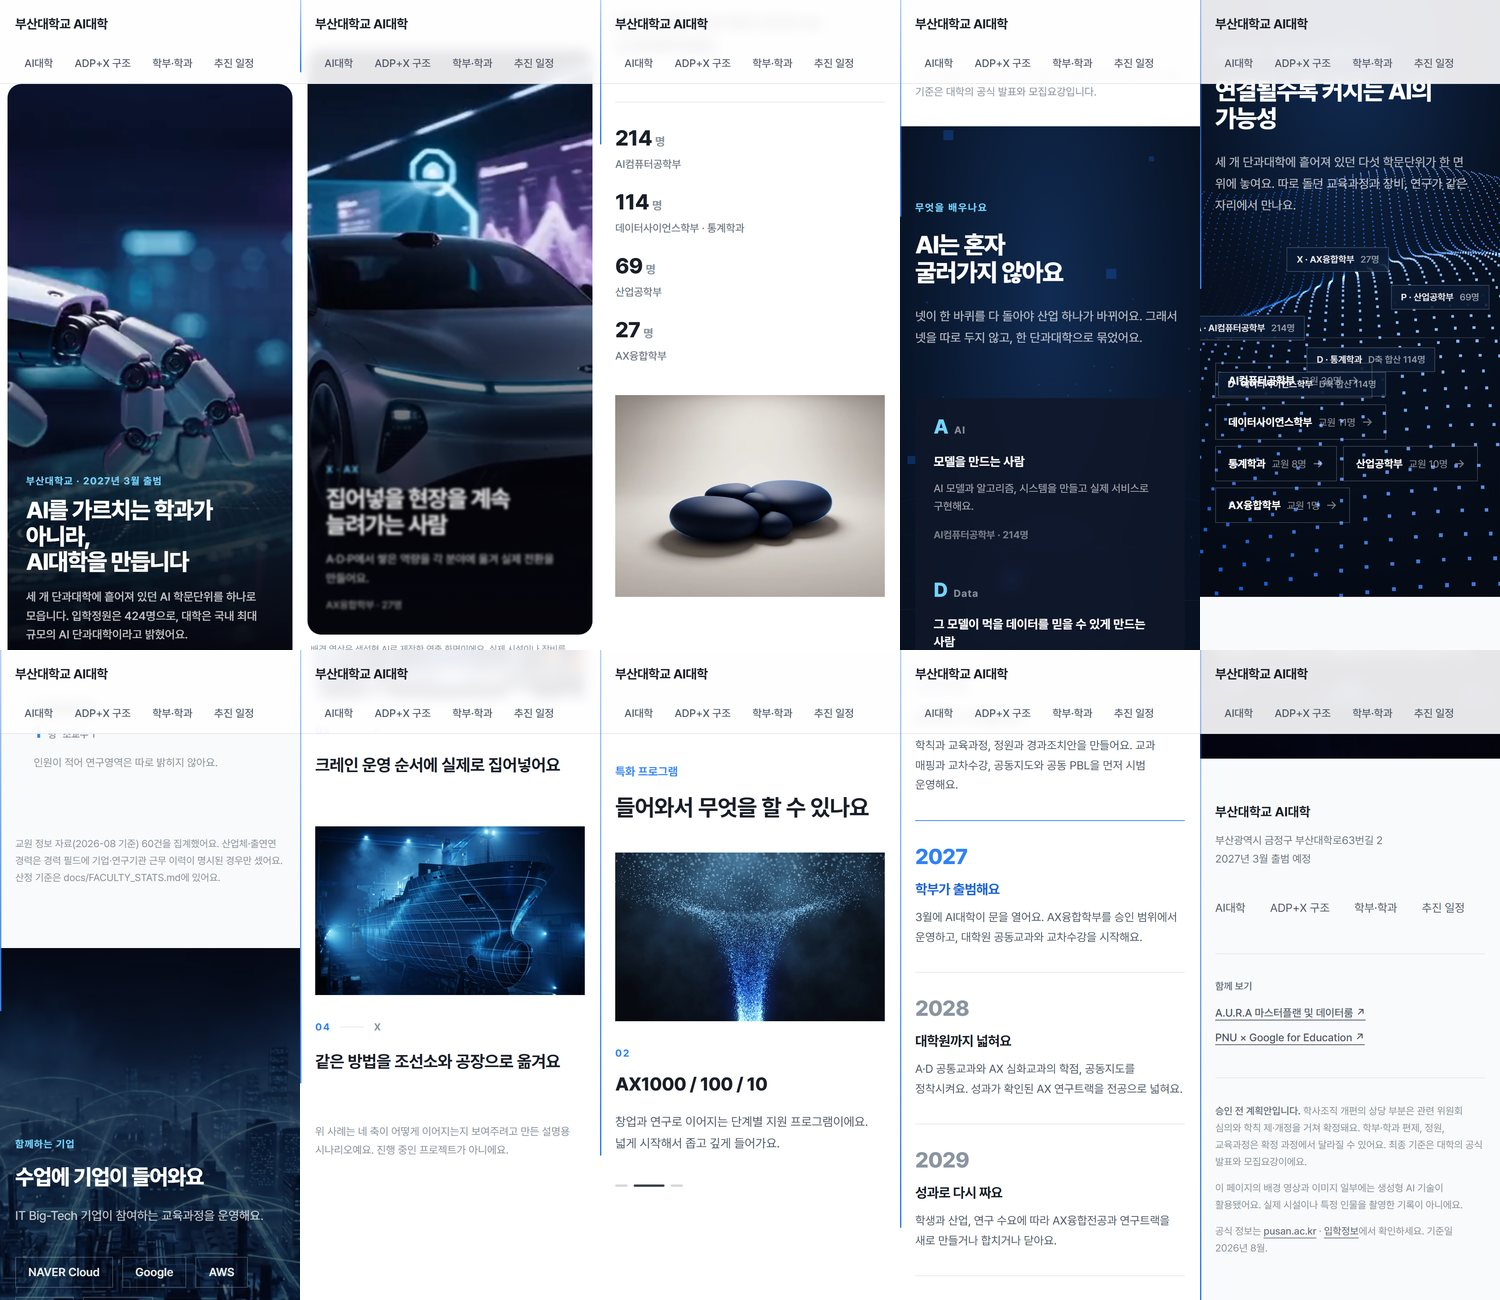
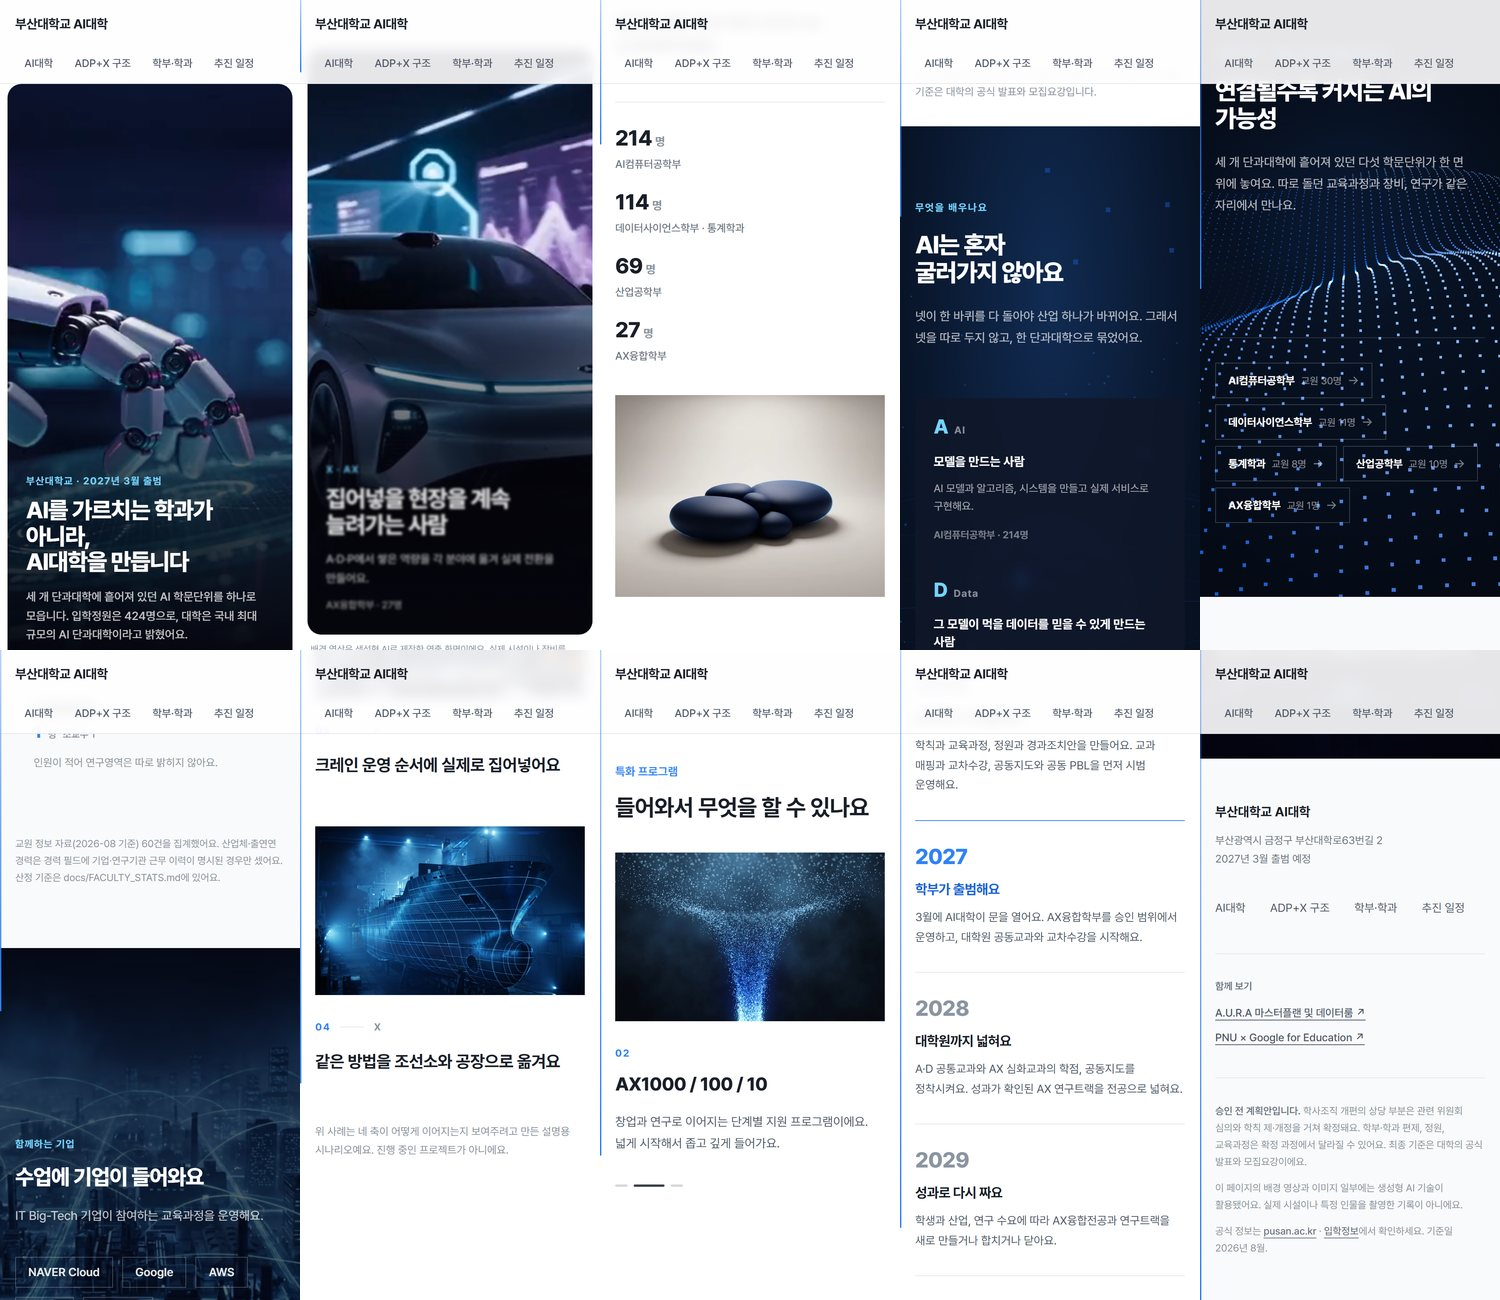
34회차 기록: 새 절 모바일 점검, 기준 변화 기록
Claude-Session: https://claude.ai/code/session_01DneFDYxx25DjwNJdj8uLH7

Changed region(s): [[0.7973, 0.1846, 1.0, 0.3077], [0.828, 0.0615, 1.0, 0.1538]]

diff --git a/docs/GAP_LOG.md b/docs/GAP_LOG.md
@@ -1315,3 +1315,37 @@ h2 로 올리고 구역 이름(`aria-labelledby`)으로도 걸었다.
 
 **재측정**: 자동 검사 넷 0, 낭독기 뼈대 h1 1개·이름 없는 구역 0, 첫 화면 전송량
 그대로, 모바일 가로 넘침 없음.
+
+## 34회차 — 새 절 셋을 좁은 화면에서
+
+33회차에 three.js 두 절과 갤러리를 붙이면서 **가로 넘침만 확인하고 실제 화면은
+보지 않았다.** 390px 로 훑으니 하나가 깨져 있었다.
+
+**파동 표식이 학부 링크 위에 겹친다.** 표식 자리를 비율(`left: 15%` 식)로 박아뒀는데,
+390px 에서는 그 비율이 아래 링크 목록과 같은 자리를 가리킨다. **상자 넷이 서로 포개져
+어느 것도 읽히지 않았다.**
+
+좁은 화면에서는 표식을 감춘다(`hidden md:block`). 이름은 아래 링크 목록이 이미
+말하므로 잃는 정보가 없고, 작은 화면에서는 파동만 보이는 편이 낫다. 넓은 화면은
+그대로다 — `display` 를 실측해 `none` / `block` 을 확인했다.
+
+**본문이 파동 마루에 걸린다.** 제목 아래 문장이 앉는 높이로 마루가 올라오는 순간이
+있어 점이 촘촘한 자리에서 흰 글자가 묻혔다. 위쪽 46% 만 눌러 어둡게 했다.
+
+궤도 절과 갤러리는 좁은 화면에서 문제가 없었다. 궤도는 카드가 세로로 쌓이며 코어가
+가운데로 오고, 갤러리는 손가락으로 미는 가로 스크롤이 그대로 동작한다 —
+`useScrollRail` 을 공용으로 뺀 덕이다.
+
+**재측정**: 자동 검사 넷 0, 낭독기 뼈대 그대로, 모바일 가로 넘침 없음.
+
+## 기준에 대해 — 적어둔다
+
+33회차에 클라이언트가 **netlify 레퍼런스**를 새 기준으로 지목했다. 어두운 톤, three.js,
+전면 구성이다. toss 는 밝은 바탕에 제품 목업이 뜨는 사이트라 방향이 다르다.
+
+10단계로 나란히 놓으면 **행 9 는 여전히 맞는다** — toss 「토스가 바꾼 일상」 사진 카드
+줄과 우리 「AI대학의 장면들」이 같은 자리에서 같은 일을 한다. 구성 다양성·숨 쉬는 화면·
+한 화면에 하나 같은 원칙은 그대로 쓸모가 있다.
+
+다만 **색과 재질은 이제 toss 를 향하지 않는다.** 앞으로 이 비교표에서 "toss 는 밝은데
+우리는 어둡다" 는 격차로 세지 않는다. 클라이언트가 고른 방향이다.
